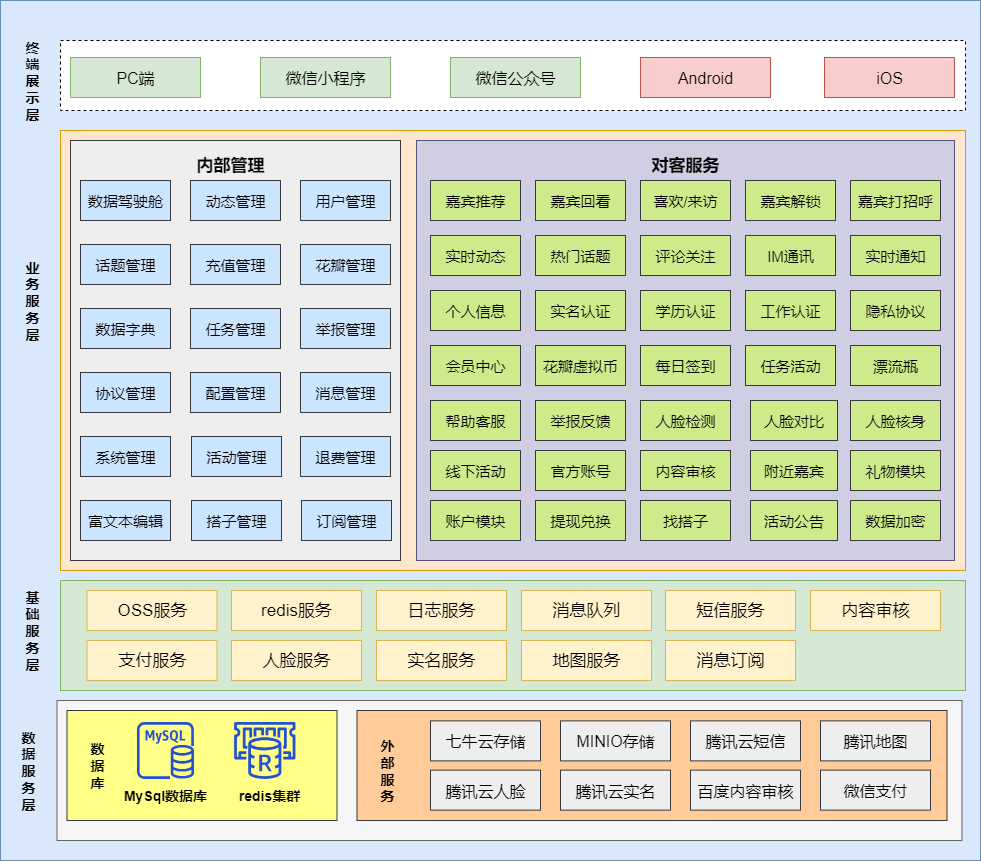
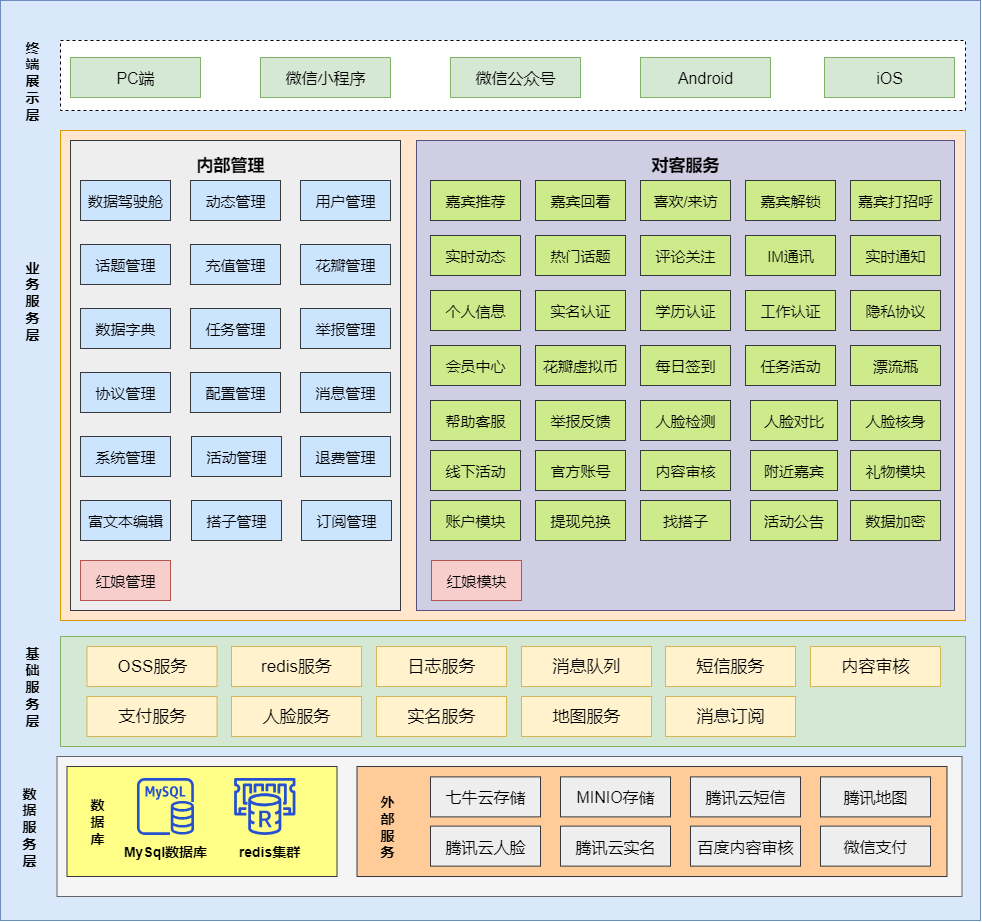
v1.13.0版本发布

diff --git a/README.md b/README.md
@@ -15,7 +15,7 @@
 
 ***SQL文件在群文件中***
 
-#### 1.1系统架构图(v1.12.0标准版)
+#### 1.1系统架构图(v1.13.0标准版)
 ![](https://gitee.com/yuncoder001/linfeng-love/raw/master/images/love-main.png)
 
 #### 1.2演示地址
@@ -99,7 +99,20 @@
 
 ### 3.标准版更新记录
 
-**当前版本V1.12.0**
+**当前版本V1.13.0**
+
+<u>2025.12.17</u>
+##### **林风婚恋交友V1.13.0发布**
+- 【新增】1.红娘模块
+- 【新增】2.新用户注册流程及UI重构
+- 【新增】3.导航页后台配置（支持视频）
+- 【新增】4.小程序端实名认证改造
+- 【新增】5.腾讯e政通人脸核身
+- 【新增】6.取消喜欢功能
+- 【新增】7.实名认证开关优化
+- 【优化】8.协议配置及常见问题优化
+- 【优化】9.优化实名认证后更新生日/性别
+- 【优化】10.优化会员开通后可推荐人数立即生效
 
 <u>2025.10.10</u>
 ##### **林风婚恋交友V1.12.0发布**
